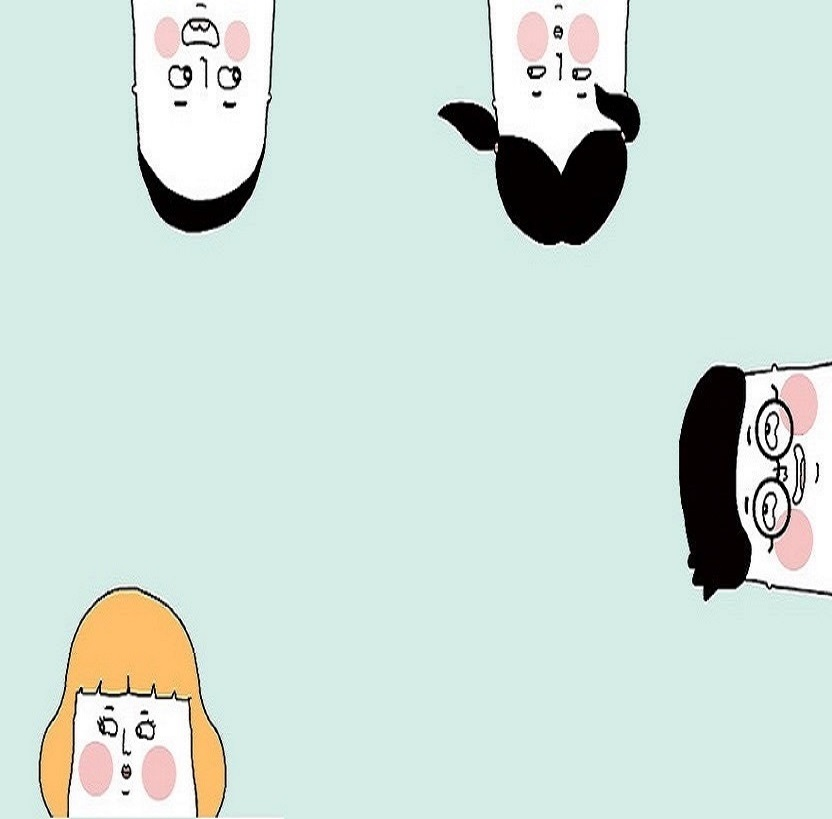
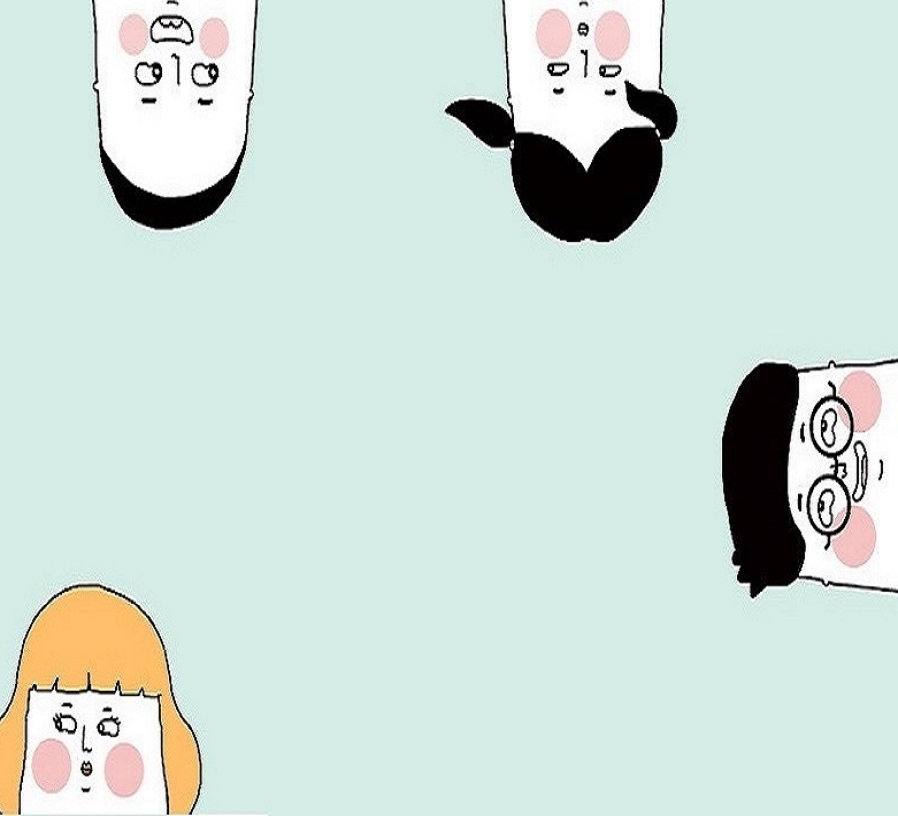
4.4

diff --git a/about.html b/about.html
@@ -13,7 +13,7 @@
     <link rel="stylesheet" href="https://cdnjs.cloudflare.com/ajax/libs/font-awesome/4.6.3/css/font-awesome.min.css">
 </head>
 
-<body style="background-image:url(img/wo.jpg);background-position:1px 10px;background-attachment:fixed;background-repeat: no-repeat;">
+<body style="background-image:url(img/wo.jpg);background-position:1px 100px;background-attachment:fixed;background-repeat: no-repeat;">
 
     <!-- 導覽例-->
     <div class="container-fluid">
@@ -67,9 +67,9 @@
 
     <!-- 內文 -->
     <div class="row">
-        <div class="col-md-5">
+        <div class="col-md-6">
         </div>
-        <div class="col-md-7" style="background-image:url(img/.jpg);background-attachment:fixed;">
+        <div class="col-md-6" style="background-image:url(img/.jpg);background-attachment:fixed;">
             <center>
                 <h1>
                     <font size="+10"><b>Woociy</b></font>

diff --git a/game.html b/game.html
@@ -21,7 +21,7 @@
     </style>
 </head>
 
-<body style="background-image:url(img/j.jpg);background-size:1430px 780px;background-repeat:no-repeat;margin-top:200px;">
+<body style="background-image:url(img/j.jpg);background-size:1320px 880px;background-repeat:no-repeat;background-position:-10px 30px;">
     <!-- 導覽例-->
     <div class="container-fluid">
         <nav class="navbar navbar-full navbar-fixed-top navbar-dark bg-inverse bg-faded">
